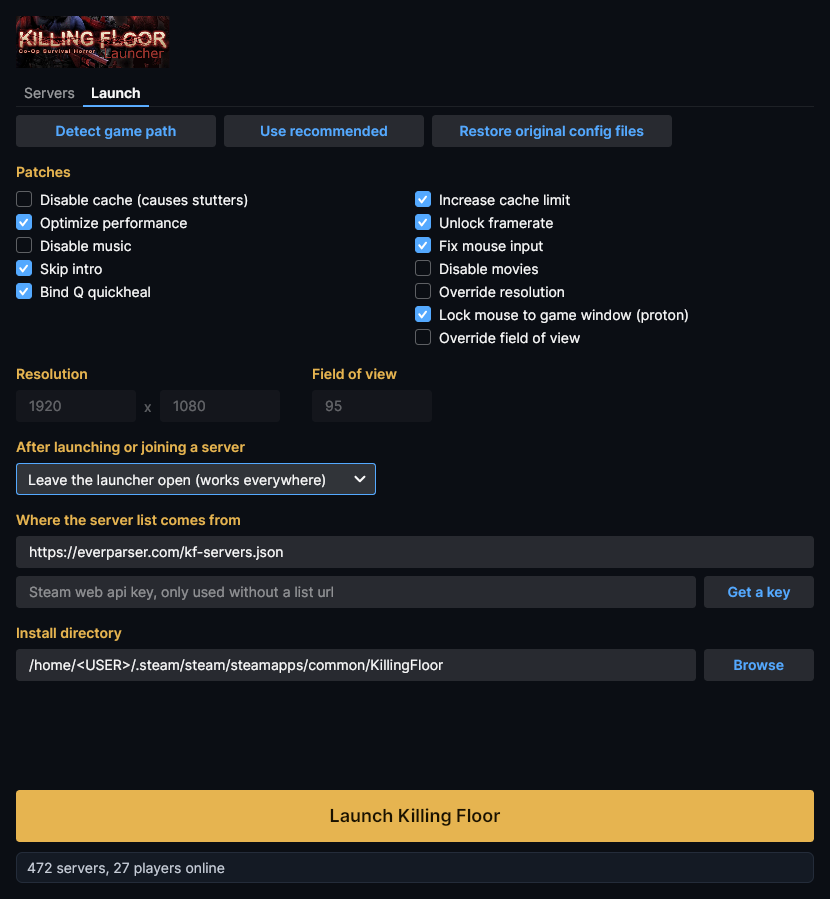
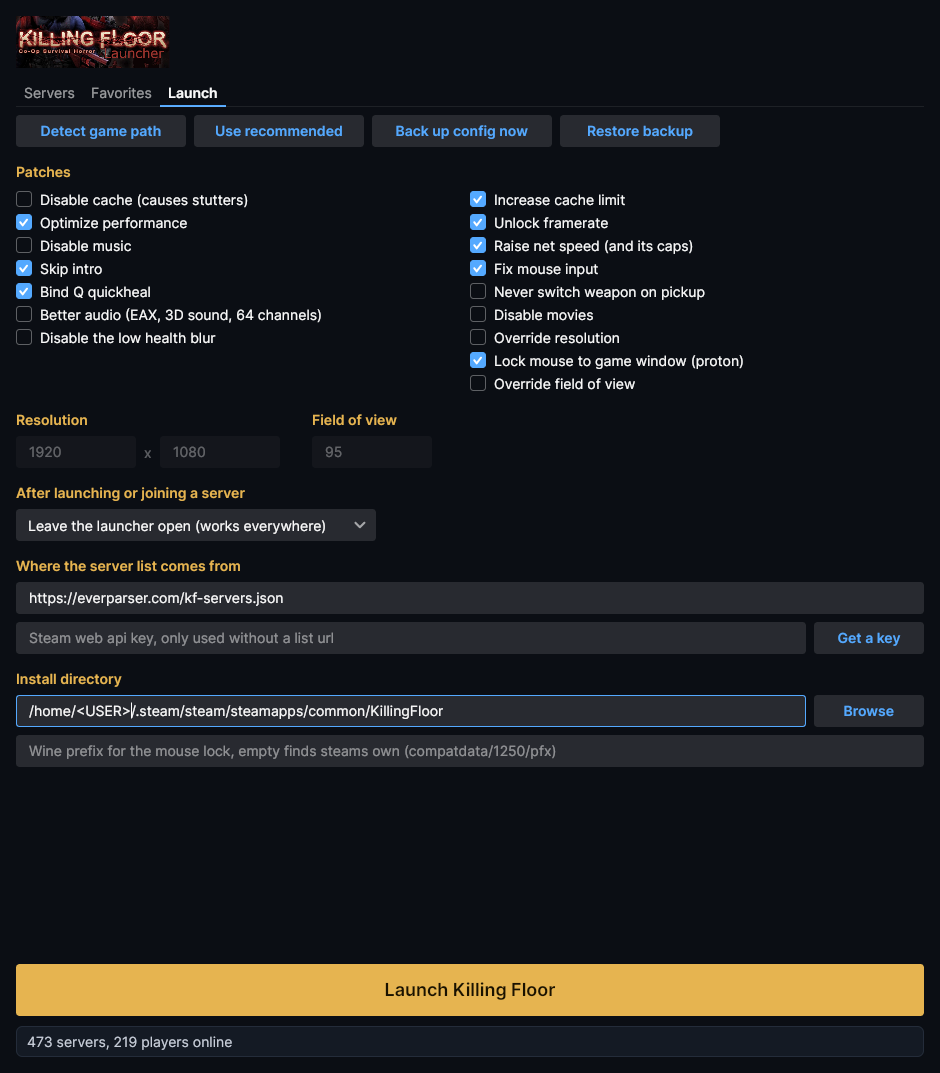
One line per row, and the padlock moves in with the name
A long server name wrapped and pushed the row open, which on a narrow
window came out as roughly one character per line and three lines per
server.  Rows are a fixed height now and the text is cut with an
ellipsis instead.

The column between the star and the name was the padlock, empty for
almost every server, so the padlock moved in next to the name and the
column is gone.

Names that are not valid utf8 (plenty of servers use latin1 for their
box drawing and accents) came through as a row of replacement diamonds.
They are decoded as latin1 when utf8 says no.

New screenshots, and the favorites tab now has one in the readme.

Changed region(s): [[0.0, 0.3737, 0.994, 0.7786], [0.0, 0.0, 0.8434, 0.4049], [0.0, 0.8721, 0.994, 0.9967]]

diff --git a/KFLauncher/Models/ServerBrowser.cs b/KFLauncher/Models/ServerBrowser.cs
@@ -199,6 +199,8 @@ namespace KFLauncher.Models
         /// </summary>
         public const string DefaultListUrl = "https://everparser.com/kf-servers.json";
 
+        private static readonly Encoding StrictUtf8 = new UTF8Encoding(encoderShouldEmitUTF8Identifier: false, throwOnInvalidBytes: true);
+
         private const uint Single = 0xFFFFFFFF;
         private const uint Split = 0xFFFFFFFE;
 
@@ -439,7 +441,24 @@ namespace KFLauncher.Models
 
             i++;
 
-            return Encoding.UTF8.GetString(value.ToArray()).Trim();
+            return Decode(value.ToArray()).Trim();
+        }
+
+        /// <summary>
+        /// Server names are whatever the host typed.  Most are utf8, plenty are not, and decoding
+        /// one of those as utf8 leaves a row of replacement diamonds where the box drawing and the
+        /// accents were, so anything that is not valid utf8 is read as latin1 instead.
+        /// </summary>
+        private static string Decode(byte[] text)
+        {
+            try
+            {
+                return StrictUtf8.GetString(text);
+            }
+            catch (DecoderFallbackException)
+            {
+                return Encoding.Latin1.GetString(text);
+            }
         }
 
         /// <summary>

diff --git a/KFLauncher/Models/SelfTest.cs b/KFLauncher/Models/SelfTest.cs
@@ -52,6 +52,12 @@ namespace KFLauncher.Models
             A2SInfo? colourful = ServerBrowser.ParseInfo(coloured.ToArray(), new IPEndPoint(IPAddress.Loopback, 27015), 0);
             failed += Check(colourful?.Name == "KF Server", $"colour codes are stripped from names, got {colourful?.Name}");
 
+            // a name in latin1, which is not valid utf8 and used to come through as diamonds
+            List<byte> latin1 = [0xFF, 0xFF, 0xFF, 0xFF, 0x49, 0x11, (byte)'W', (byte)'S', 0xBB, (byte)'6', (byte)'0', 0x00];
+            latin1.AddRange(info.GetRange(info.IndexOf(0) + 1, info.Count - info.IndexOf(0) - 1));
+            A2SInfo? mixed = ServerBrowser.ParseInfo(latin1.ToArray(), new IPEndPoint(IPAddress.Loopback, 27015), 0);
+            failed += Check(mixed?.Name == "WS\u00BB60", $"a name that is not utf8 is read as latin1, got {mixed?.Name}");
+
             A2SInfo? parsed = ServerBrowser.ParseInfo(info.ToArray(), new IPEndPoint(IPAddress.Loopback, 27015), 42);
             failed += Check(parsed is not null, "info reply parses");
             failed += Check(parsed?.Name == "KF Server", $"name parsed, got {parsed?.Name}");

diff --git a/README.md b/README.md
@@ -22,7 +22,7 @@ Keys the game has not written yet are added, in the right section, rather than s
 
 It also has a server browser, so you can find a server and jump straight into it without going through the in-game menus.
 
-![The server browser, with the details panel open on the selected server](docs/servers.png)
+![The server browser: the list, the filters, and the details panel open on the selected server](docs/servers.png)
 
 Most of these improvements will be noticable right away.  The one caveat to this is the capped frame-rate in multiplayer, **which is uncapped as soon as you press any mouse button.**
 
@@ -56,6 +56,8 @@ Window size, column widths and the sort you left it on are remembered.
 The star in the first column saves a server.  The 'Favorites' tab lists what you have starred, refreshes it on its own (so you can see who is on your usual server without loading the whole list) and takes an address directly, `123.45.67.89:7707` or a hostname, for servers steam does not list or that you were simply handed.  Saved servers live in your settings file, keep their password, and survive a refresh, a restart and the server dropping off steams list entirely.
 
 Give it the port you would type after `open` in the console.  Unreal answers server queries one port above the game, so that is tried first and the port as given second, and whatever the server reports for itself wins over either.
+
+![The favorites tab, with the details panel open on a saved server](docs/favorites.png)
 
 ## How connecting works
 That goes through `steam://run/1250//<ip>:<port>/` rather than the obvious `steam://connect`, because steam works out which game a `connect` link belongs to by querying the server, and KF servers do not report an app id it accepts: you get "app id specified by server is invalid" on either the game port or the query port.  Naming the app in the url and letting unreal take the address as a launch argument sidesteps the lookup entirely.
@@ -118,4 +120,4 @@ dotnet run --project KFLauncher/KFLauncher.csproj -- --selftest
 ### Screenshot
 The patches, and where the launcher gets its server list from:
 
-![The launch tab](docs/launch.png)
+![The launch tab, with the patch checkboxes and the paths](docs/launch.png)
